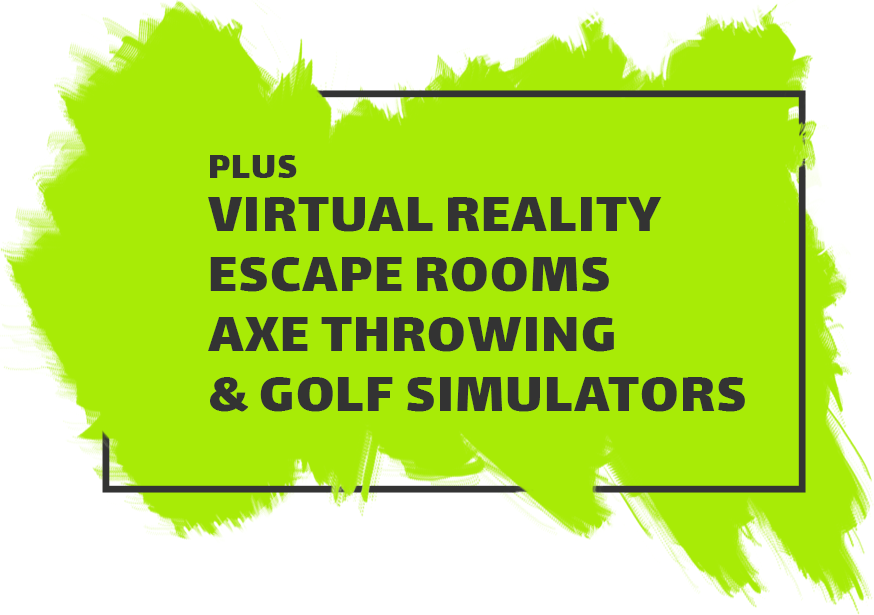
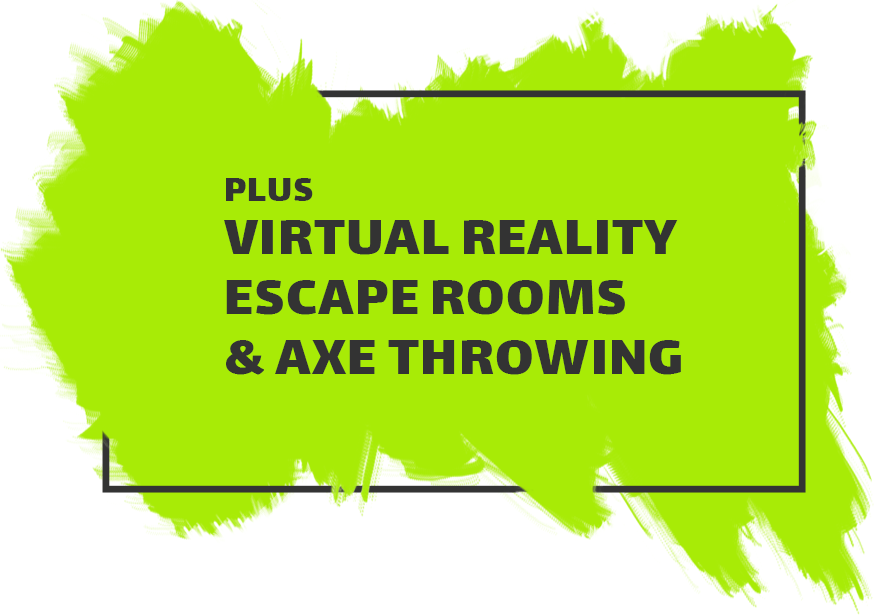
- Changed Golf sim to Axe throwing

Changed region(s): [[0.2162, 0.2472, 0.865, 0.6797]]

diff --git a/factory-web/src/components/modules/hero-form.vue b/factory-web/src/components/modules/hero-form.vue
@@ -4,7 +4,7 @@
       <div class="flex flex-wrap">
         <div class="mdev-hero-form-content">
           <h2 class="--font-teal">Opening</h2>
-          <h1>Winter 2018</h1>
+          <h1>Early 2018</h1>
           <p>
             Coming soon to London Ontario, a massive indoor amusement park with fun filled activities for all ages!
           </p>

diff --git a/factory-web/src/components/modules/opening.vue b/factory-web/src/components/modules/opening.vue
@@ -18,7 +18,7 @@
       <div class="mdev-main-wrapper">
         <div class="mdev-title-container">
           <h2>Opening</h2>
-          <h1 class="--font-white">Winter 2018</h1>
+          <h1 class="--font-white">Early 2018</h1>
         </div>
       </div>
     </div>

diff --git a/factory-web/webpack.config.js b/factory-web/webpack.config.js
@@ -132,7 +132,7 @@ module.exports = {
       persistentCache: true,
       inject: true,
       background: '#fff',
-      title: 'Zucora Work Order Portal',
+      title: 'The Factory London',
 
       icons: {
         android: true,
